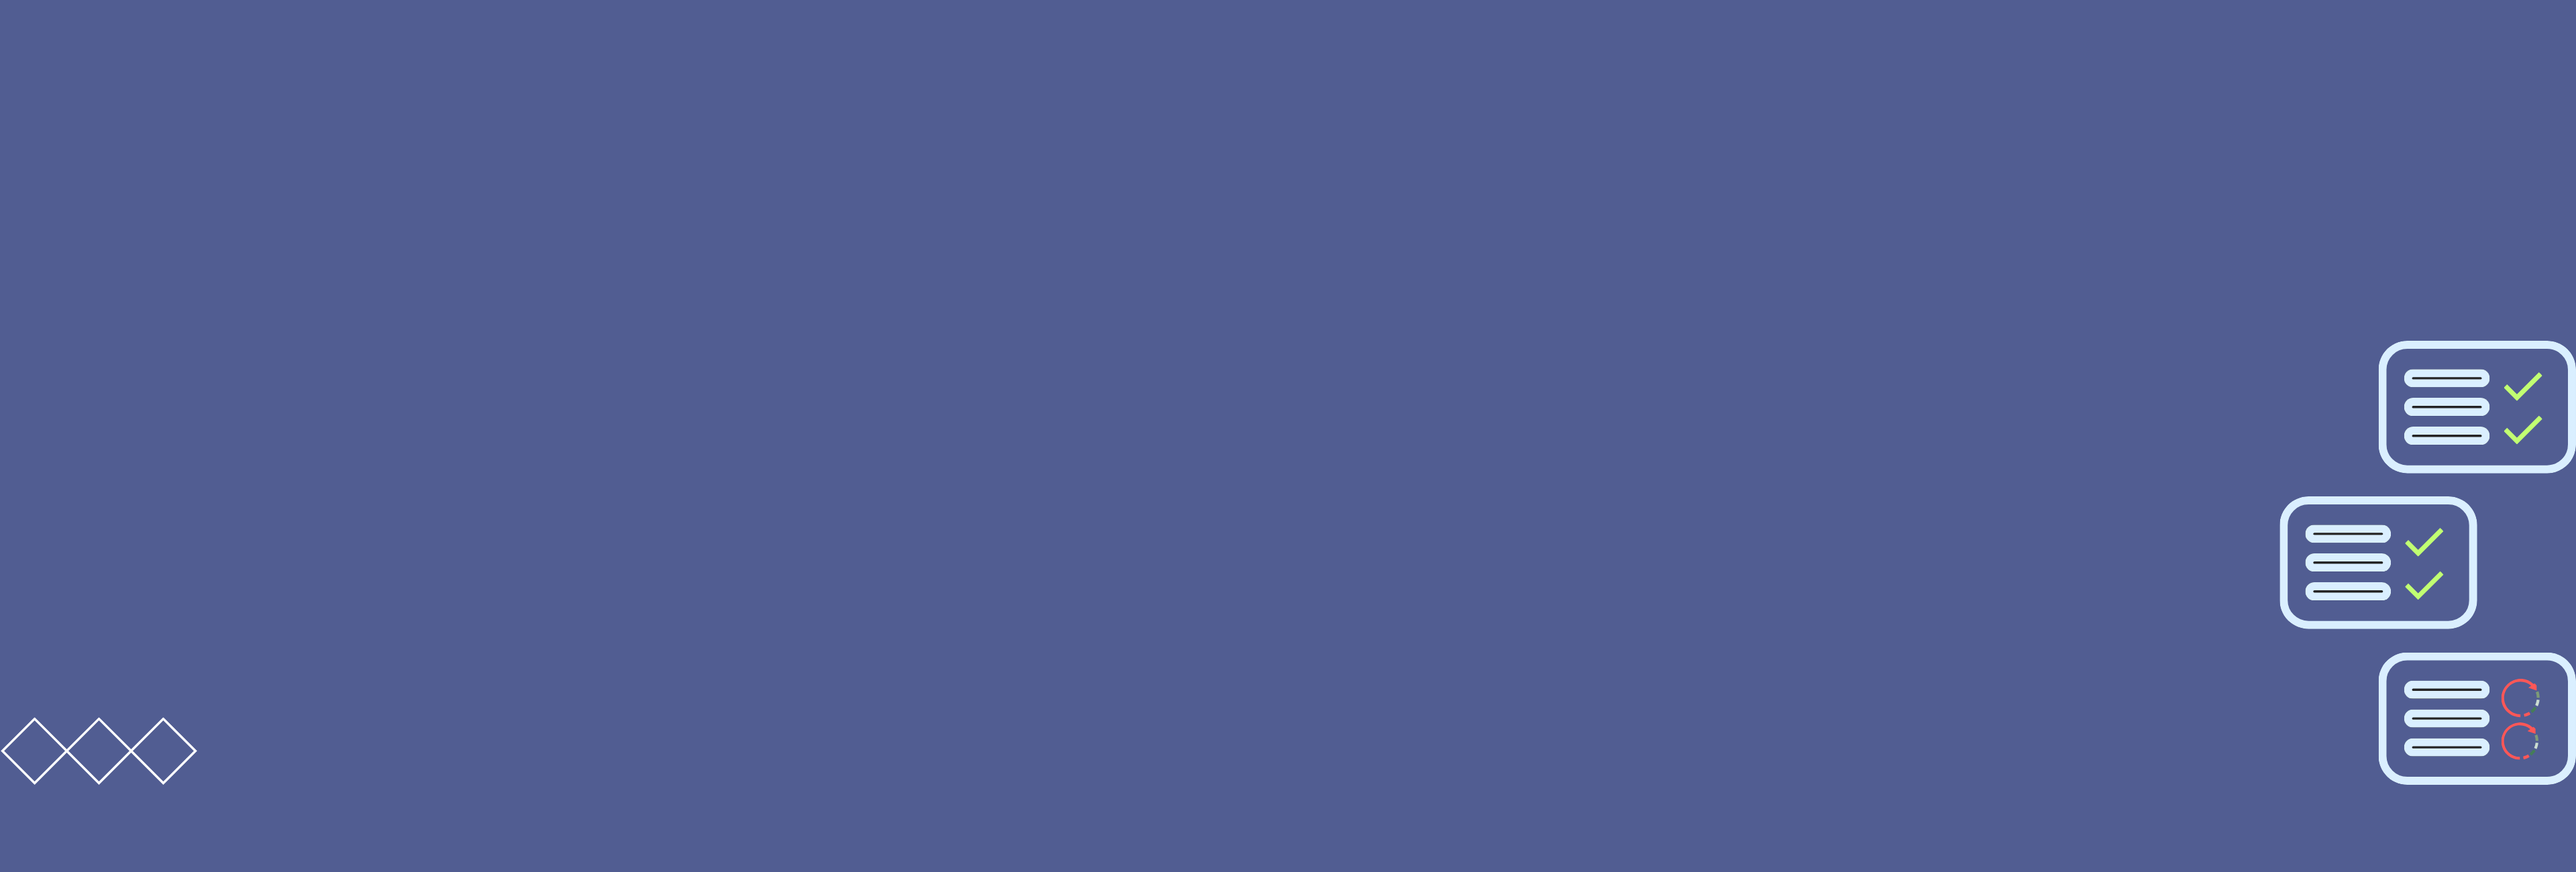
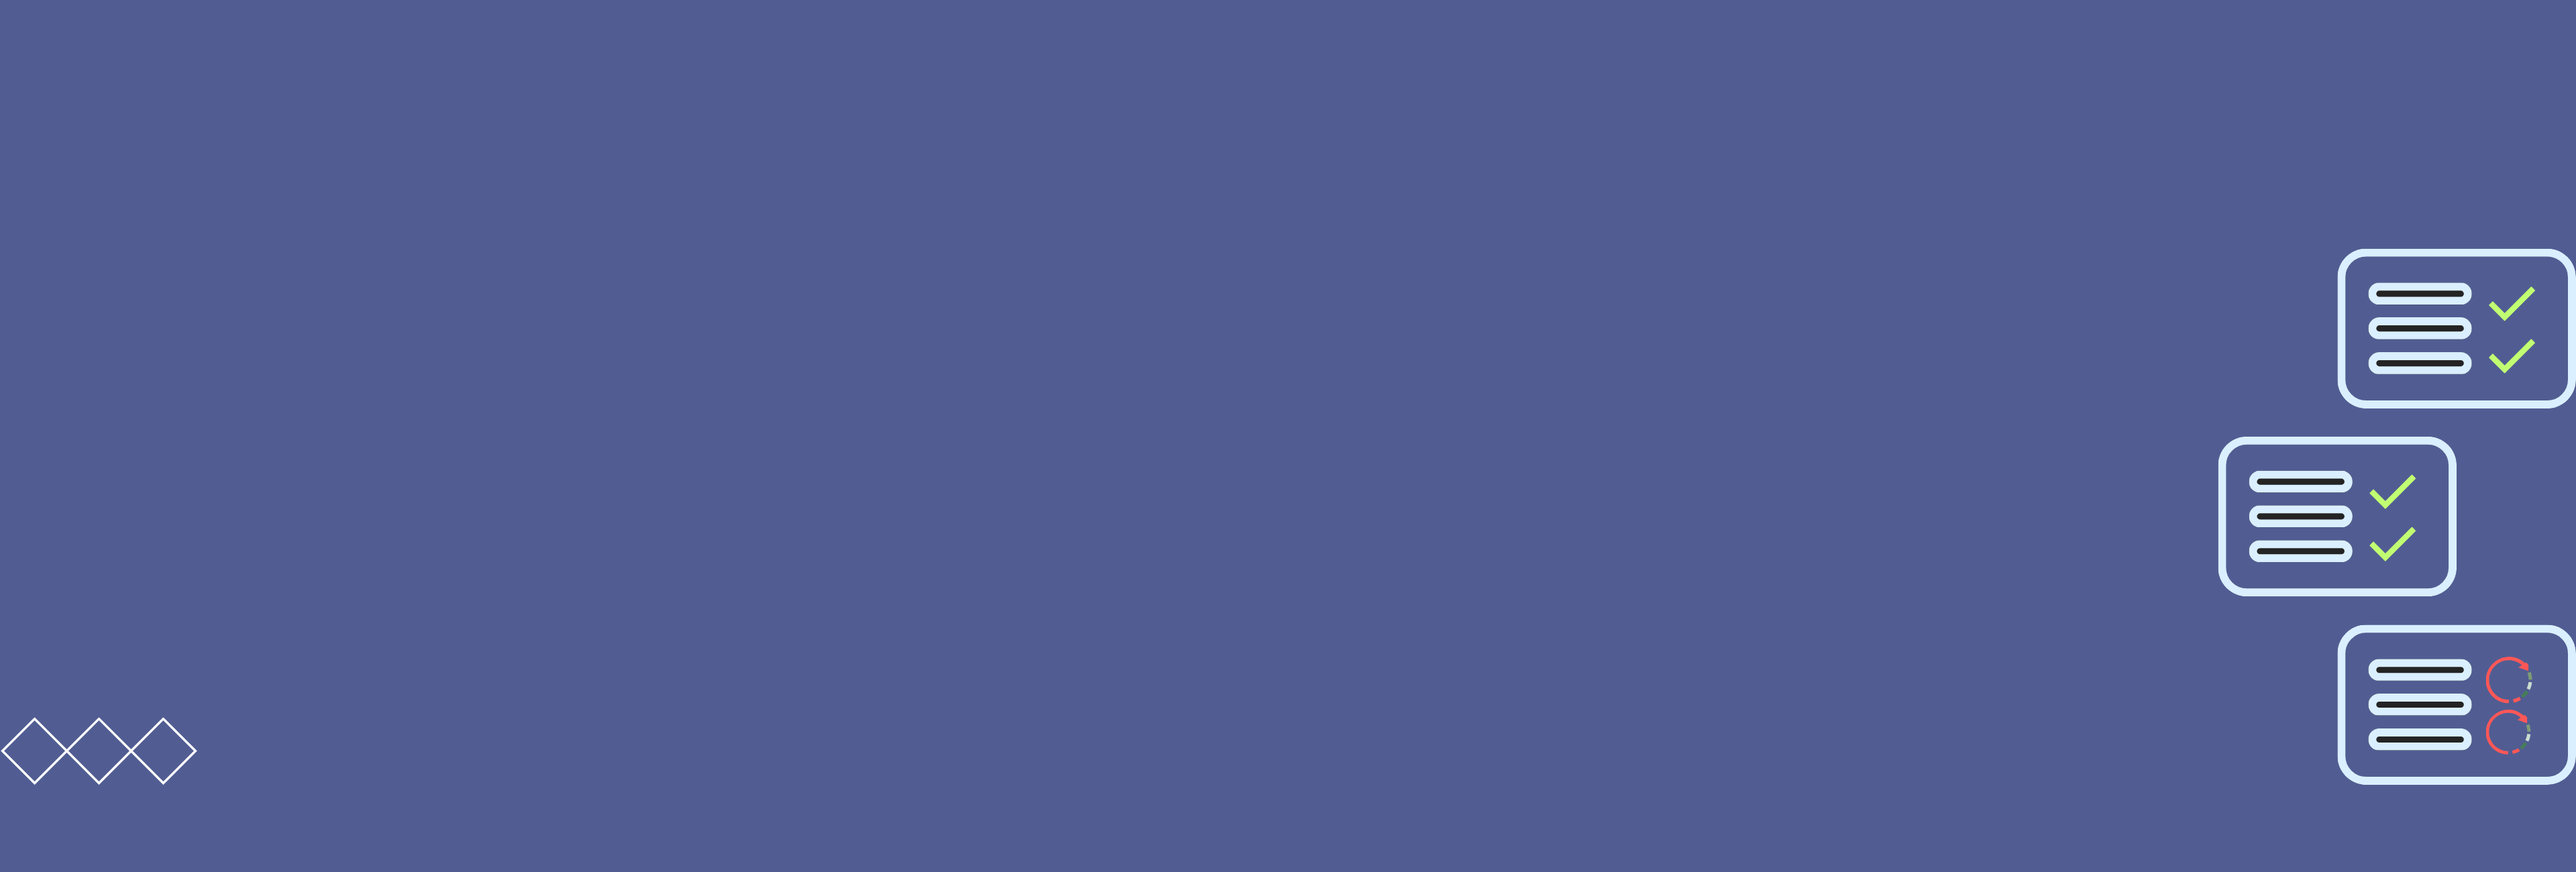
trocando img pag home

Changed region(s): [[0.8438, 0.2769, 1.0, 0.9231]]

diff --git a/src/templates/layout.html b/src/templates/layout.html
@@ -26,9 +26,9 @@
 
         <!-- Navbar -->
 
-        <nav class="navbar navbar-expand-lg bg-body fixed-top">
+        <nav class=" navbar navbar-expand-lg bg-body fixed-top">
             <div class="col p-0"></div>
-            <div class="container-fluid container_navbar col-10 p-0">
+            <div class=" container-fluid container_navbar col-10 p-0">
                 <button
                     class="navbar-toggler"
                     type="button"
@@ -40,19 +40,19 @@
                 >
                     <span class="navbar-toggler-icon"></span>
                 </button>
-                <div class="collapse navbar-collapse" id="navbarNavDropdown">
-                    <ul style="max-width: 75%" class="navbar-nav">
-                        <li class="nav-item">
-                            <a style="font-weight: bolder;margin-left: -15%;" class="nav-link" aria-current="page" href="home">Agile Learn</a>
+                <div class=" collapse navbar-collapse" id="navbarNavDropdown">
+                    <ul class="navbar-nav">
+                        <li class="nav-item ">
+                            <a style="font-weight: bolder;" class="p-0 mt-2 nav-logo nav-link" aria-current="page" href="home">Agile Learn</a>
                         </li>
-                        <li class="nav-item">
-                            <a class="nav-link active px-2.5" aria-current="page" href="home">Home</a>
+                        <li class="ms-1 nav-item">
+                            <a class="nav-link active px-2.5 " aria-current="page" href="home">Home</a>
                         </li>
                         <!-- <li class="nav-item">
                                 <a class="nav-link" href="#">História</a>
                             </li> -->
                         <!-- dropdown 1 -->
-                        <li class="nav-item dropdown">
+                        <li class="ms-1 nav-item dropdown">
                             <a class="nav-link dropdown-toggle" href="#" role="button" data-bs-toggle="dropdown" aria-expanded="false"> Papéis do Scrum </a>
                             <ul class="dropdown-menu">
                                 <li><a class="dropdown-item" href="po">Product Owner</a></li>
@@ -61,11 +61,11 @@
                             </ul>
                         </li>
                         <!-- dropdown 2 -->
-                        <li class="nav-item dropdown">
+                        <li class="ms-1 nav-item dropdown ">
                             <a class="px-2.5 nav-link dropdown-toggle" href="#" role="button" data-bs-toggle="dropdown" aria-expanded="false">
                                 Artefatos do Scrum
                             </a>
-                            <ul class="dropdown-menu">
+                            <ul class="dropdown-menu ">
                                 <li><a class="dropdown-item" href="productbacklog">Product Backlog</a></li>
                                 <li><a class="dropdown-item" href="sprintbacklog">Sprint Backlog</a></li>
                                 <li><a class="dropdown-item" href="burndownchart">Burndown Chart</a></li>
@@ -76,10 +76,10 @@
                                 <li><a class="dropdown-item" href="eventos">Eventos Scrum</a></li>
                             </ul>
                         </li>
-                        <li class="nav-item">
+                        <li class="ms-1 nav-item">
                             <a class="px-2.5 nav-link" href="avaliador">Avaliador</a>
                         </li>
-                        <li class="nav-item">
+                        <li class="ms-1 nav-item">
                             <a class="nav-link" href="aprofundamento">Aprofundamento</a>
                         </li>
                         

diff --git a/src/templates/home.html b/src/templates/home.html
@@ -94,7 +94,7 @@
                 <img src="../static/img/home_44.png" class="img-fluid" alt="Metodologia Ágil" />
 
                 <div class="text-overlay2">
-                    <h1>Benefícios do scrum</h1>
+                    <h1 class="fs-2" >Benefícios do scrum</h1>
                     <p>
                         <strong style="font-weight: bold">Adaptação a Mudanças:</strong> A metodologia ágil é altamente adaptável, os requisitos podem mudar ao
                         longo do tempo.
@@ -122,12 +122,12 @@
         <div class="col p-0"></div>
     </div>
 
-    <div class="flex_1">
+    <div class="flex_1 mt-2">
     <div class="row">
         <div class="col p-0"></div>
         <div class="col-5 p-0">
             <div style="margin-top: 3%" class="text-overlay3">
-                <h1>Como funciona?</h1>
+                <h1 class="fs-2" >Como funciona?</h1>
                 <p>
                     O Scrum é uma metodologia ágil que visa maximizar a eficiência e a eficácia na entrega de projetos, especialmente em ambientes complexos e
                     adaptativos. Ele se baseia em pilares como transparência, inspeção e adaptação, oferecendo uma estrutura flexível para o desenvolvimento
@@ -154,8 +154,8 @@
         </div>
 
         <div class="col-5 p-0">
-            <div style="margin-top: 25%" class="text-overlay3">
-                <img src="../static/img/home_.png" class="img-fluid" alt="" />
+            <div class="text-overlay3">
+                <img src="../static/img/home_66.png" class="img_media img-fluid" alt="" />
             </div>
         </div>
         <div class="col p-0"></div>
@@ -163,7 +163,7 @@
 </div>
 
     <!--------------- Imagem home 3 ---------------->
-    <div class="row mt-5">
+    <div class="row mt-4">
         <div style="background-color: #333652" class="col p-0"></div>
 
         <div class="col-10 p-0">

diff --git a/src/templates/devteam.html b/src/templates/devteam.html
@@ -7,7 +7,7 @@
 <!--------------- Imagem home 1---------------->
 <div class="container-fluid">
     <div class="row">
-        <div style="background-color: #fef4b1" class="col p-0"></div>
+        <div style="background-color: #F7F7F7" class="col p-0"></div>
 
         <div class="col-10 p-0">
             <div class="img-container">
@@ -21,7 +21,7 @@
                 </div>
             </div>
         </div>
-        <div style="background-color: #fef4b1" class="col p-0"></div>
+        <div style="background-color: #F7F7F7" class="col p-0"></div>
     </div>
 
     <div class="row">
@@ -304,9 +304,9 @@
 
     <!--------------- Imagem home 1---------------->
     <div class="row">
-        <div style="background-color: #fef4b1" class="col p-0"></div>
+        <div style="background-color: #F7F7F7" class="col p-0"></div>
 
-        <div class="col-10 p-0" style="background-color: #fef4b1">
+        <div class="col-10 p-0" style="background-color: #F7F7F7">
             <div class="text-overlay6 mb-5 mt-5">
                 <h5>Como se tornar um bom Desenvolvedor:</h5>
             </div>
@@ -335,7 +335,7 @@
             </div>
         </div>
 
-        <div style="background-color: #fef4b1" class="col p-0"></div>
+        <div style="background-color: #F7F7F7" class="col p-0"></div>
     </div>
 </div>
 {% endblock %}

diff --git a/src/static/po.css b/src/static/po.css
@@ -323,3 +323,8 @@ font-size: 90%;
   }
 }
 
+@media screen and (max-width: 1100px) {
+  .img_media  {
+    display: none;
+  }
+}
